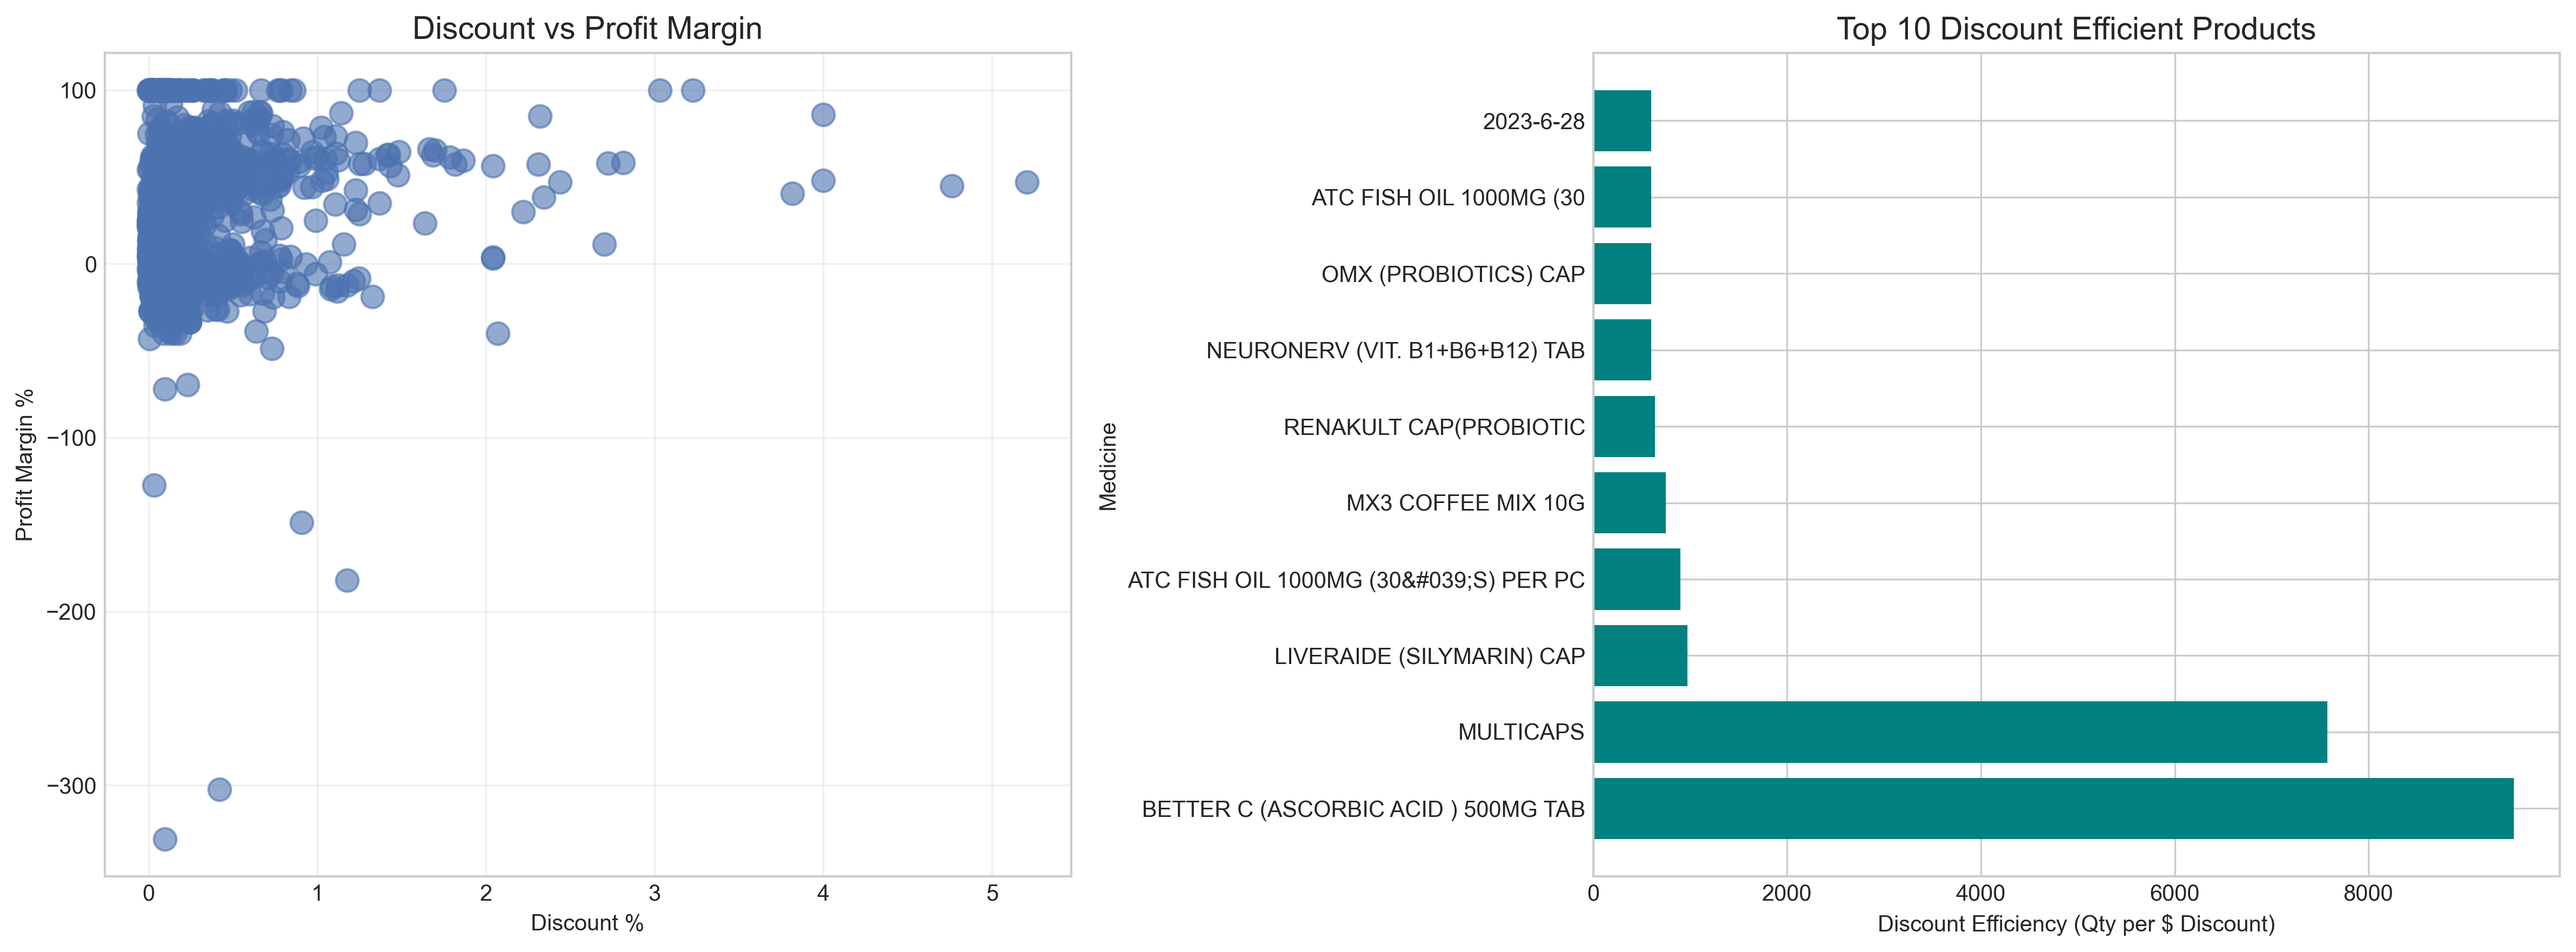
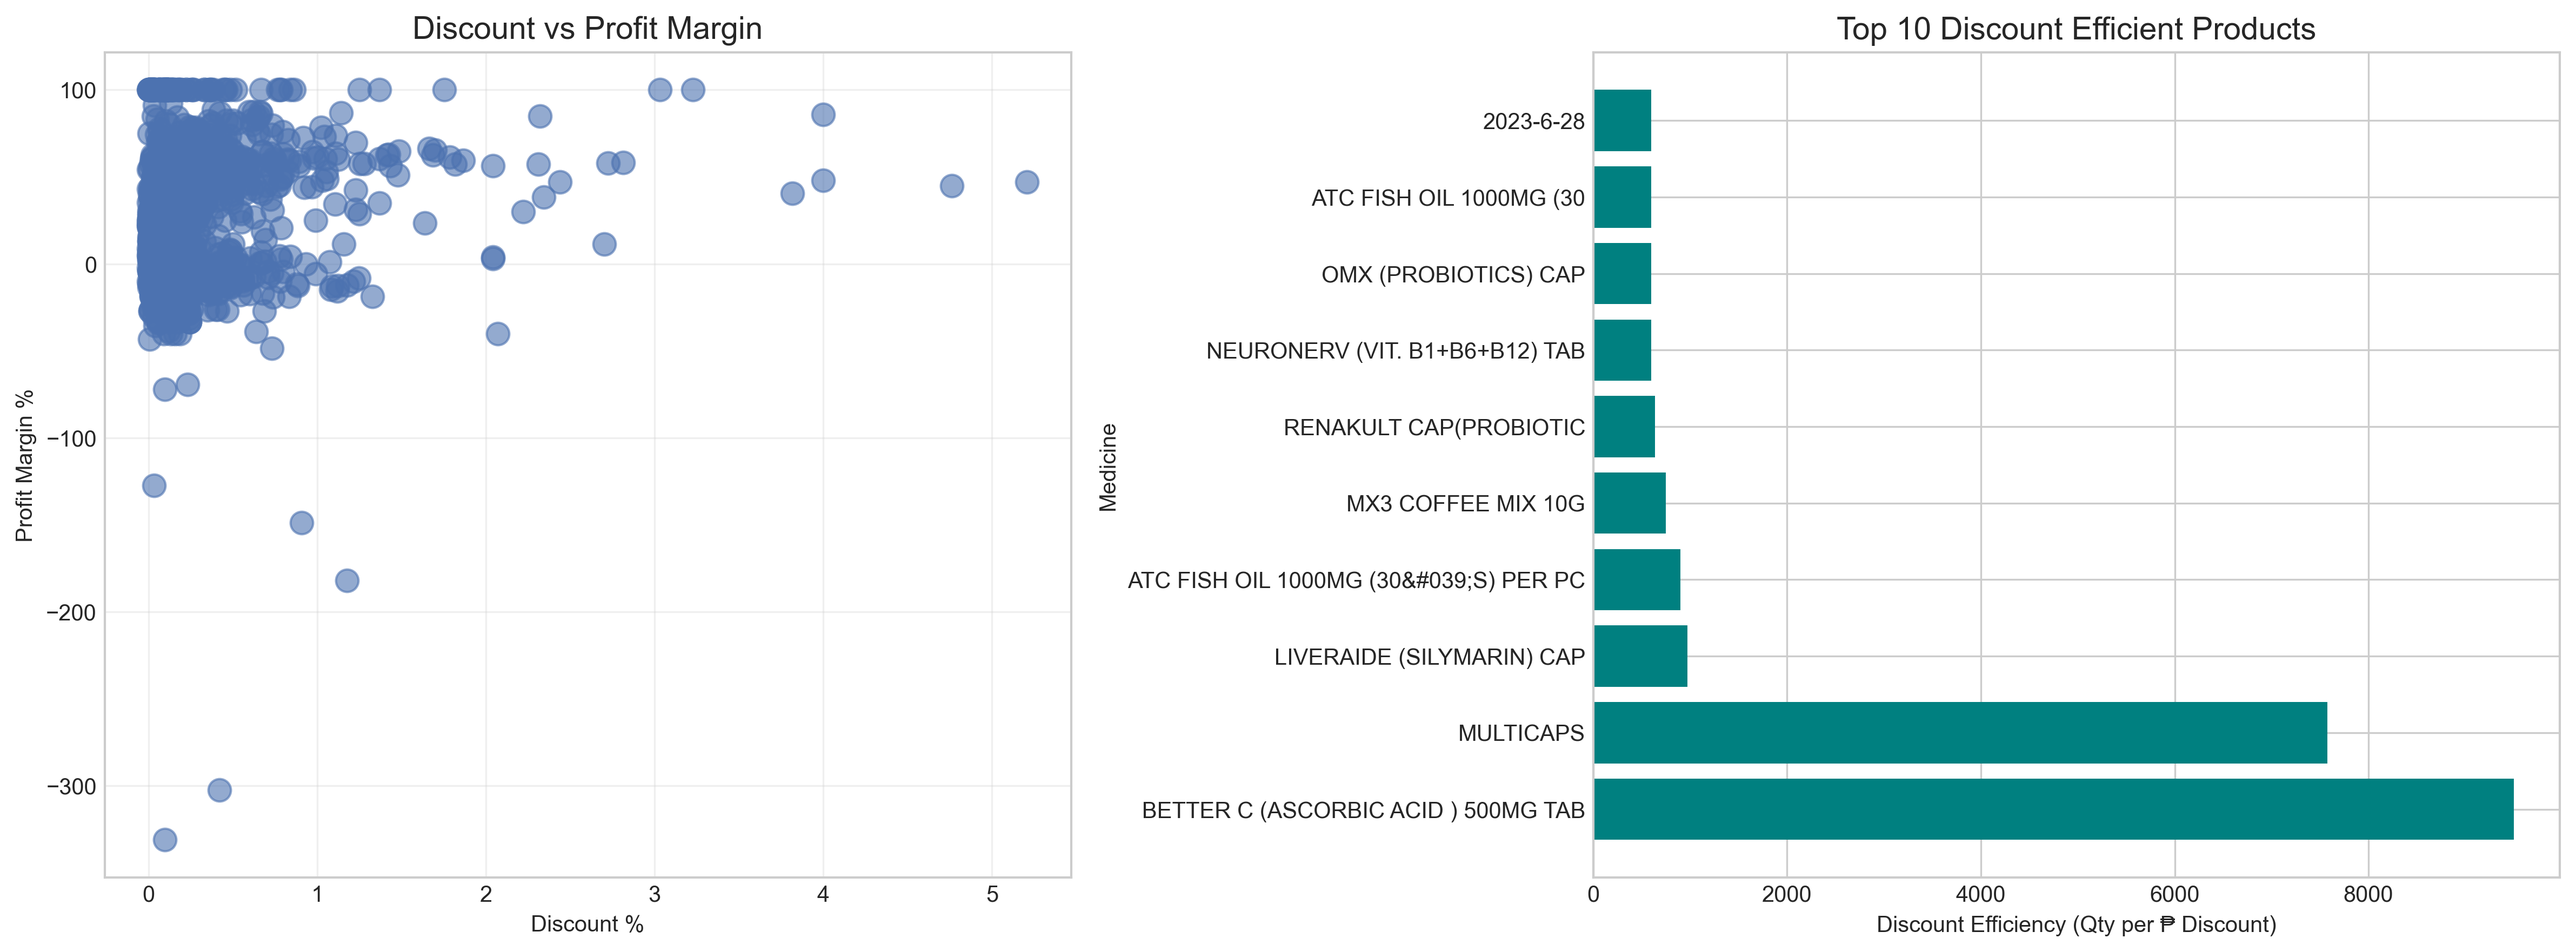
minor improvements
- changed $ to Php
- improved model

diff --git a/backend/src/analytics/prescriptive/prescriptive.py b/backend/src/analytics/prescriptive/prescriptive.py
@@ -440,9 +440,9 @@ def optimize_inventory_allocation(products_df, budget_constraint, storage_constr
         print(f"Error in inventory allocation: {e}")
         return None
 
-# Set constraints
-total_budget = medicine_stats['total_sales'].sum() * 0.3
-storage_capacity = medicine_stats['total_qty'].sum() * 0.5
+# Set constraints (increased to allow more products in allocation)
+total_budget = medicine_stats['total_sales'].sum() * 0.6
+storage_capacity = medicine_stats['total_qty'].sum() * 0.8
 
 allocation_df = optimize_inventory_allocation(
     medicine_stats[medicine_stats['medicine'].isin(top_products)].copy(),
@@ -451,9 +451,9 @@ allocation_df = optimize_inventory_allocation(
 )
 
 if allocation_df is not None and not allocation_df.empty:
-    print(f"\nOptimal Inventory Allocation (Budget: ${total_budget:,.2f}, Storage: {storage_capacity:,.0f} units):")
+    print(f"\nOptimal Inventory Allocation (Budget: ₱{total_budget:,.2f}, Storage: {storage_capacity:,.0f} units):")
     print(allocation_df.head(10)[['medicine', 'optimal_allocation', 'allocated_value', 'expected_profit']].to_string(index=False))
-    
+
     # Visualization
     plt.figure(figsize=(14, 8))
     top_10_alloc = allocation_df.head(10)
@@ -539,13 +539,13 @@ if top_products:
         ax1.bar(whatif_df['scenario'], whatif_df['projected_sales'], color=['red', 'orange', 'gray', 'lightgreen', 'green'])
         ax1.set_title(f'Sales Projections - {top_medicine}', fontsize=14)
         ax1.set_xlabel('Scenario')
-        ax1.set_ylabel('Projected Sales ($)')
+        ax1.set_ylabel('Projected Sales (₱)')
         ax1.tick_params(axis='x', rotation=45)
         
         ax2.bar(whatif_df['scenario'], whatif_df['projected_profit'], color=['red', 'orange', 'gray', 'lightgreen', 'green'])
         ax2.set_title(f'Profit Projections - {top_medicine}', fontsize=14)
         ax2.set_xlabel('Scenario')
-        ax2.set_ylabel('Projected Profit ($)')
+        ax2.set_ylabel('Projected Profit (₱)')
         ax2.tick_params(axis='x', rotation=45)
         
         plt.tight_layout()
@@ -612,7 +612,7 @@ if product_discount is not None and not product_discount.empty:
     
     top_10_disc = product_discount.head(10)
     ax2.barh(top_10_disc['medicine'], top_10_disc['discount_efficiency'], color='teal')
-    ax2.set_xlabel('Discount Efficiency (Qty per $ Discount)')
+    ax2.set_xlabel('Discount Efficiency (Qty per ₱ Discount)')
     ax2.set_ylabel('Medicine')
     ax2.set_title('Top 10 Discount Efficient Products', fontsize=14)
     
@@ -664,7 +664,7 @@ if resource_df is not None and not resource_df.empty:
     total_capital = resource_df['capital_needed'].sum()
     
     print(f"\nTotal Storage Required: {total_storage:,.0f} cubic feet")
-    print(f"Total Capital Required: ${total_capital:,.2f}")
+    print(f"Total Capital Required: ₱{total_capital:,.2f}")
     
     # Visualization
     fig, (ax1, ax2) = plt.subplots(1, 2, figsize=(16, 6))
@@ -677,7 +677,7 @@ if resource_df is not None and not resource_df.empty:
     ax1.set_title('Storage Requirements (Top 10 Products)', fontsize=14)
     
     ax2.barh(top_10_resource['medicine'], top_10_resource['capital_needed'], color='coral')
-    ax2.set_xlabel('Capital Needed ($)')
+    ax2.set_xlabel('Capital Needed (₱)')
     ax2.set_ylabel('Medicine')
     ax2.set_title('Capital Requirements (Top 10 Products)', fontsize=14)
     
@@ -740,7 +740,7 @@ if daily_sales is not None and anomalies is not None:
                daily_sales[daily_sales['anomaly'] == -1]['sales'],
                c='red', label='Anomaly', alpha=0.8, s=100, marker='x')
     plt.xlabel('Date')
-    plt.ylabel('Daily Sales ($)')
+    plt.ylabel('Daily Sales (₱)')
     plt.title('Sales Anomaly Detection', fontsize=14)
     plt.legend()
     plt.xticks(rotation=45)
@@ -798,7 +798,7 @@ def generate_recommendations(df, rop_df, eoq_df, allocation_df, product_discount
         top_alloc = allocation_df.head(5)
         recommendations.append(f"\n  ✓ PRIORITIZE INVESTMENT IN:")
         for _, row in top_alloc.iterrows():
-            recommendations.append(f"    • {row['medicine']}: {row['optimal_allocation']:.0f} units (${row['allocated_value']:,.2f})")
+            recommendations.append(f"    • {row['medicine']}: {row['optimal_allocation']:.0f} units (₱{row['allocated_value']:,.2f})")
     
     recommendations.append("\n💵 PRICING & DISCOUNT RECOMMENDATIONS:")
     
@@ -820,14 +820,14 @@ def generate_recommendations(df, rop_df, eoq_df, allocation_df, product_discount
     if anomalies is not None and not anomalies.empty:
         recommendations.append(f"\n  ✓ INVESTIGATE {len(anomalies)} ANOMALOUS SALES DAYS")
         for _, row in anomalies.head(3).iterrows():
-            recommendations.append(f"    • {row['date'].strftime('%Y-%m-%d')}: ${row['sales']:,.2f} (Score: {row['anomaly_score']:.2f})")
+            recommendations.append(f"    • {row['date'].strftime('%Y-%m-%d')}: ₱{row['sales']:,.2f} (Score: {row['anomaly_score']:.2f})")
     
     recommendations.append("\n🏗 RESOURCE PLANNING (Next 90 Days):")
     
     if resource_df is not None and not resource_df.empty:
         recommendations.append(f"\n  ✓ PREPARE FOR NEXT QUARTER:")
         recommendations.append(f"    • Storage needed: {resource_df['storage_needed'].sum():,.0f} cubic feet")
-        recommendations.append(f"    • Capital required: ${resource_df['capital_needed'].sum():,.2f}")
+        recommendations.append(f"    • Capital required: ₱{resource_df['capital_needed'].sum():,.2f}")
     
     return "\n".join(recommendations)
 
